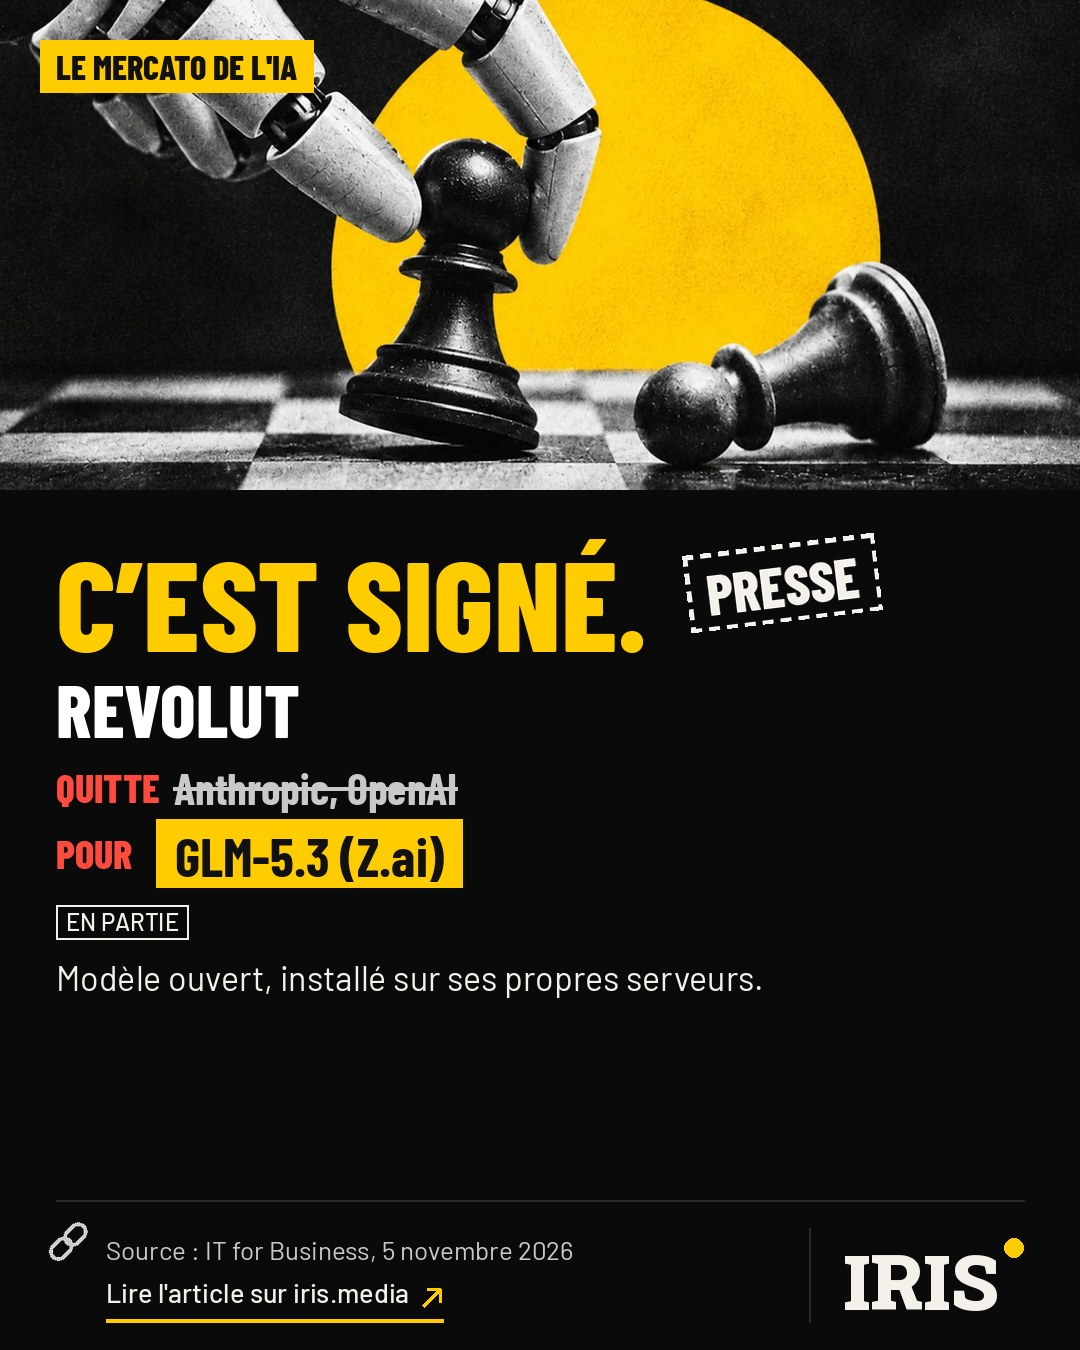
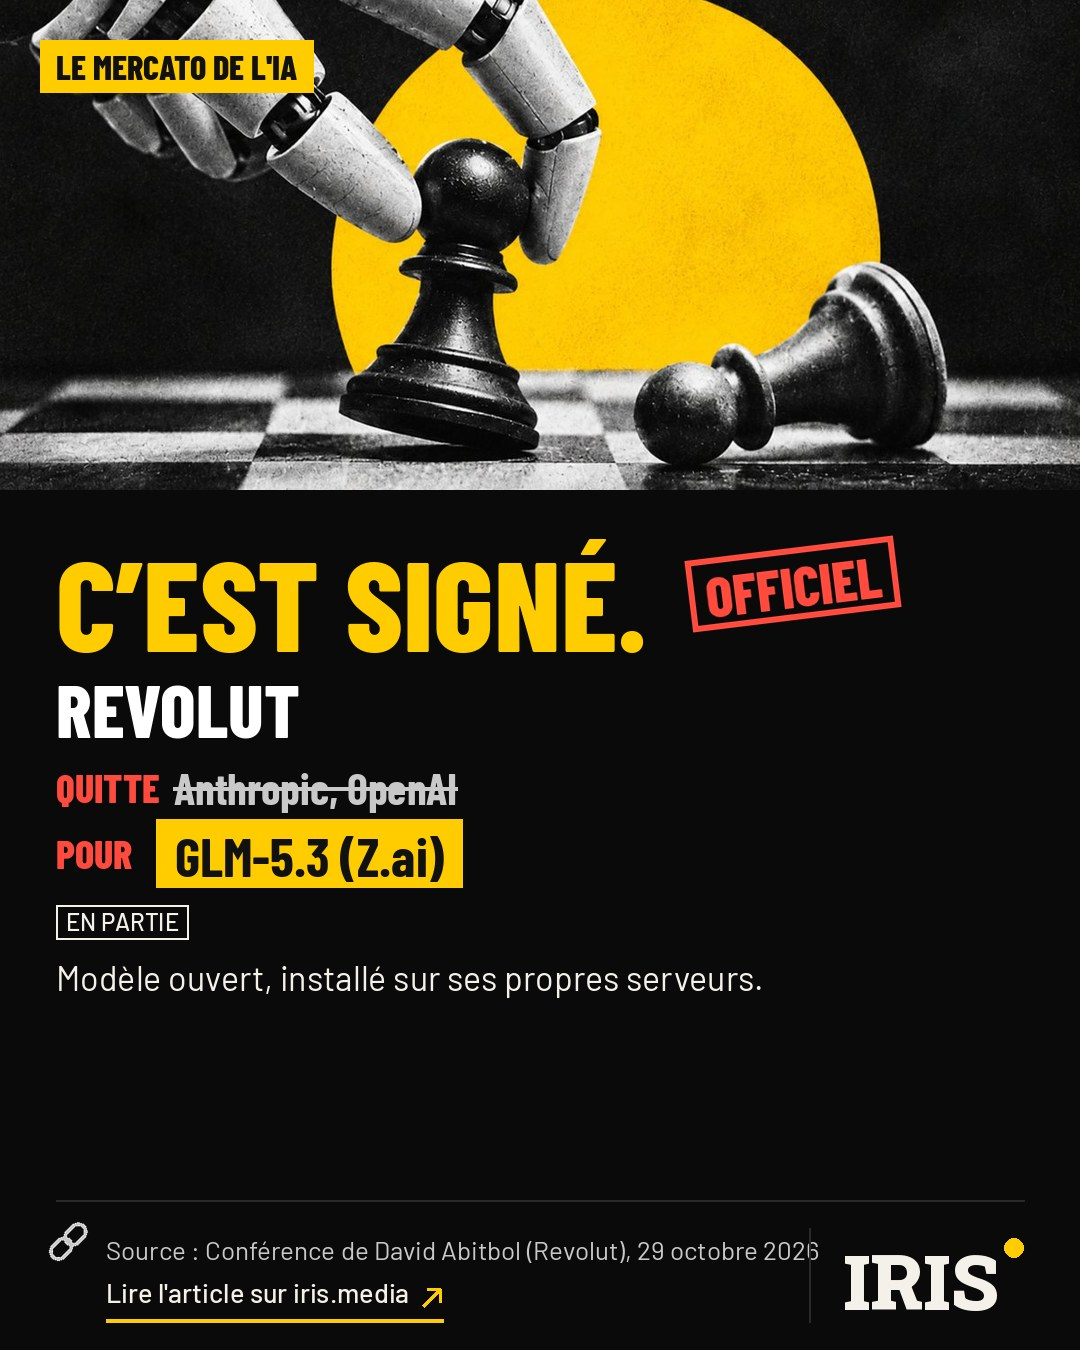
Add files via upload

Changed region(s): [[0.1833, 0.9022, 0.7639, 0.9333], [0.6111, 0.3733, 0.8556, 0.4667]]

diff --git a/iris/main.js b/iris/main.js
@@ -84,6 +84,18 @@ const ARTICLES = {
     lien: ["Les entreprises « nées de l'IA » montrent en accéléré ce qui arrive à toutes les autres : chaque gain de vitesse ajoute un fournisseur dont on dépend.", "Dans votre quotidien, combien d'outils s'appuient déjà sur un modèle d'IA ? Résumé de réunion, tri des mails, aide à la rédaction : la liste s'allonge sans qu'on la voie."],
     source: { label: "« 24 Hours Inside a $47M YC AI-native Insurance Startup », chaîne Will Phillips, août 2026", url: "https://www.youtube.com/watch?v=5tjNU_hsERk" },
   },
+  revolut: {
+    audience: "detour", tag: "24 h chez… · IA · Épisode 2", img: "assets/photos/puces.jpg", time: "5 min",
+    title: "La banque qui a ramené<br/>son IA <mark>à la maison.</mark>",
+    chapo: "Dans « 24 h chez… », Iris passe une journée, par écran interposé, dans une entreprise qui vit de l'IA. Deuxième épisode : Revolut, la banque en ligne, racontée par celui qui dirige ses opérations d'IA.",
+    fait: ["Chez Revolut, 2 000 ingénieurs écrivent leur code avec l'aide de l'IA. Fin octobre, devant une conférence de développeurs, David Abitbol, qui dirige les opérations d'IA de la banque, a raconté comment elle s'y prend.", "Le grand changement : la banque ne loue plus l'essentiel de son IA aux grands laboratoires américains. Elle fait tourner GLM, un modèle ouvert conçu par le chinois Z.ai, sur ses propres serveurs équipés de cartes graphiques Nvidia. Selon Revolut, la facture est environ dix fois plus basse."],
+    consequence: ["Une journée chez Revolut, vue de l'intérieur : des ingénieurs qui attendent une réponse de l'IA en quelques secondes, une équipe qui règle les machines pour aller plus vite avec le même matériel, et des contrôles pour rester dans les règles bancaires européennes.", "Tout ne passe pas par la maison : un aiguillage envoie encore certaines demandes, celles qui demandent par exemple de lire une image, vers les modèles de Google ou d'OpenAI."],
+    lien: ["Installer son IA chez soi, c'est ne plus dépendre d'un abonnement qu'un fournisseur peut couper ou augmenter. Mais la dépendance se déplace : vers les cartes graphiques d'un fabricant américain, vers un modèle conçu en Chine, et vers l'équipe qui doit tout faire tourner.", "Et chez vous, entre louer une IA et l'installer sur vos propres machines, de quoi préféreriez-vous dépendre ?"],
+    sources: [
+      { label: "« How Revolut Cut AI Coding Costs 90% With Self-Hosted Open Models », David Abitbol (Revolut), conférence filmée, 29 octobre 2026", url: "https://www.youtube.com/watch?v=Ok6QdZHCcI8" },
+      { label: "« Chez Revolut, l'IA réinternalisée coûte dix fois moins cher que Claude », IT for Business, 5 novembre 2026", url: "https://www.itforbusiness.fr/revolut-ia-inference-glm-cout-divise-par-dix-109445" },
+    ],
+  },
 };
 
 /* ---------- Tag de relecture ----------

diff --git a/iris/index.html b/iris/index.html
@@ -311,15 +311,16 @@
   <div class="caption"><span class="cap-label">Le Détour</span><p>Le meilleur d'ailleurs : ce que d'autres médias ont vu venir, sélectionné par Iris.</p></div>
 
   <p class="also">La série · 24 h chez…</p>
-  <a class="series-card" href="#article-harper">
-    <div class="series-illus" style="background-image:url('assets/photos/ia.jpg')" aria-hidden="true"></div>
+  <a class="series-card" href="#article-revolut">
+    <div class="series-illus" style="background-image:url('assets/photos/puces.jpg')" aria-hidden="true"></div>
     <div class="series-body">
-      <span class="flag">24 h chez… · IA · Épisode 1</span>
-      <h3 class="display-sm">Ils font en un jour ce qui en prenait sept. <mark>Et si leur IA s'arrête ?</mark></h3>
-      <p>Une journée chez Harper, courtier en assurance « né de l'IA » et soutenu par Y Combinator, d'après la vidéo de la chaîne Will Phillips. Ce que ces entreprises montrent en accéléré de notre dépendance.</p>
-      <span class="read">→ <u>Voir l'épisode (6 min)</u></span>
+      <span class="flag">24 h chez… · IA · Épisode 2</span>
+      <h3 class="display-sm">La banque qui a ramené son IA à la maison. <mark>De quoi dépend-elle encore ?</mark></h3>
+      <p>Une journée chez Revolut, racontée par celui qui dirige ses opérations d'IA : un modèle ouvert sur ses propres serveurs, une facture divisée par dix selon la banque, et des dépendances qui se déplacent.</p>
+      <span class="read">→ <u>Voir l'épisode (5 min)</u></span>
     </div>
   </a>
+  <p class="series-prec"><a href="#article-harper">Épisode 1 · Harper : ils font en un jour ce qui en prenait sept →</a></p>
 
   <p class="also">La sélection de la semaine</p>
   <div class="ext-grid" id="ext-grid"></div>

diff --git a/iris/styles.css b/iris/styles.css
@@ -1042,3 +1042,8 @@ body.ess-ouvert { overflow: hidden; }
 .pa-club span { display: inline-block; padding: 7px 12px; border: 1px solid var(--line); border-radius: 99px; font-size: 13px; font-weight: 600; cursor: pointer; }
 .pa-club input:checked + span { background: var(--yellow); border-color: var(--yellow); color: #111; }
 .pa-club input:focus-visible + span { outline: 2px solid var(--yellow); outline-offset: 2px; }
+
+/* « 24 h chez… » : le lien vers l'épisode précédent */
+.series-prec { margin: 10px 0 0; font-size: 14px; }
+.series-prec a { color: var(--muted); text-decoration: underline; text-underline-offset: 3px; }
+.series-prec a:hover { color: var(--yellow); }
